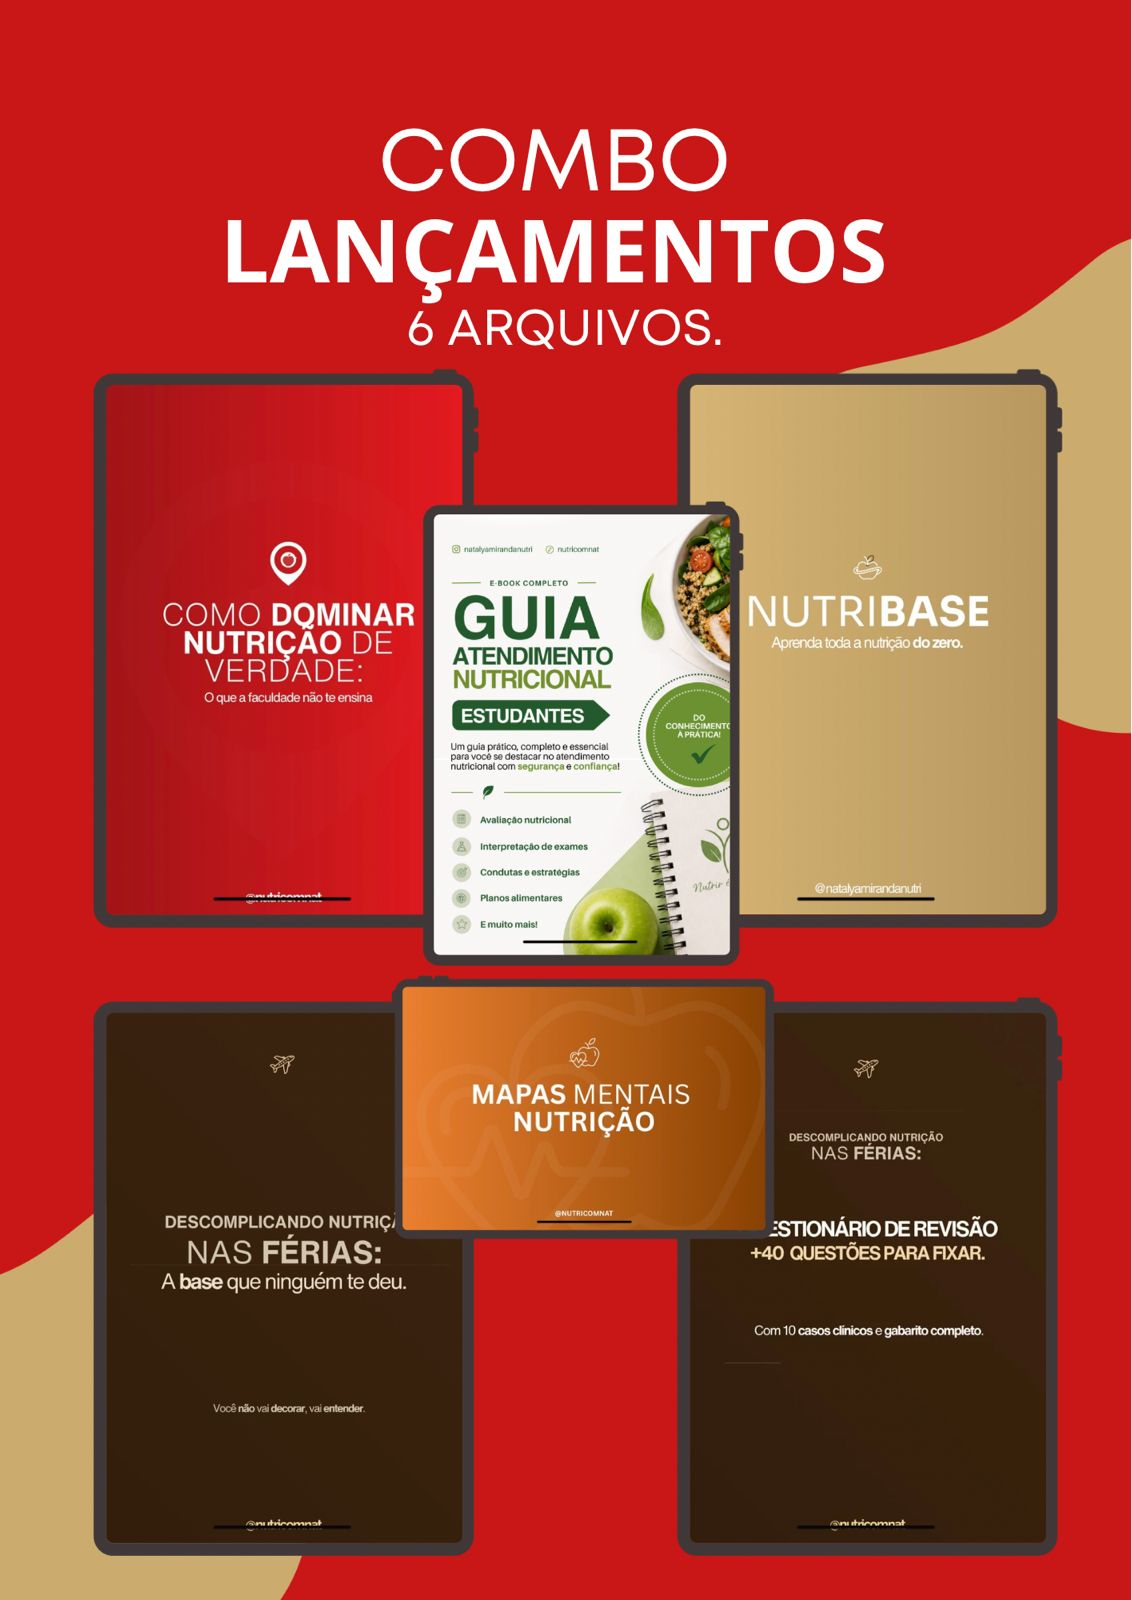
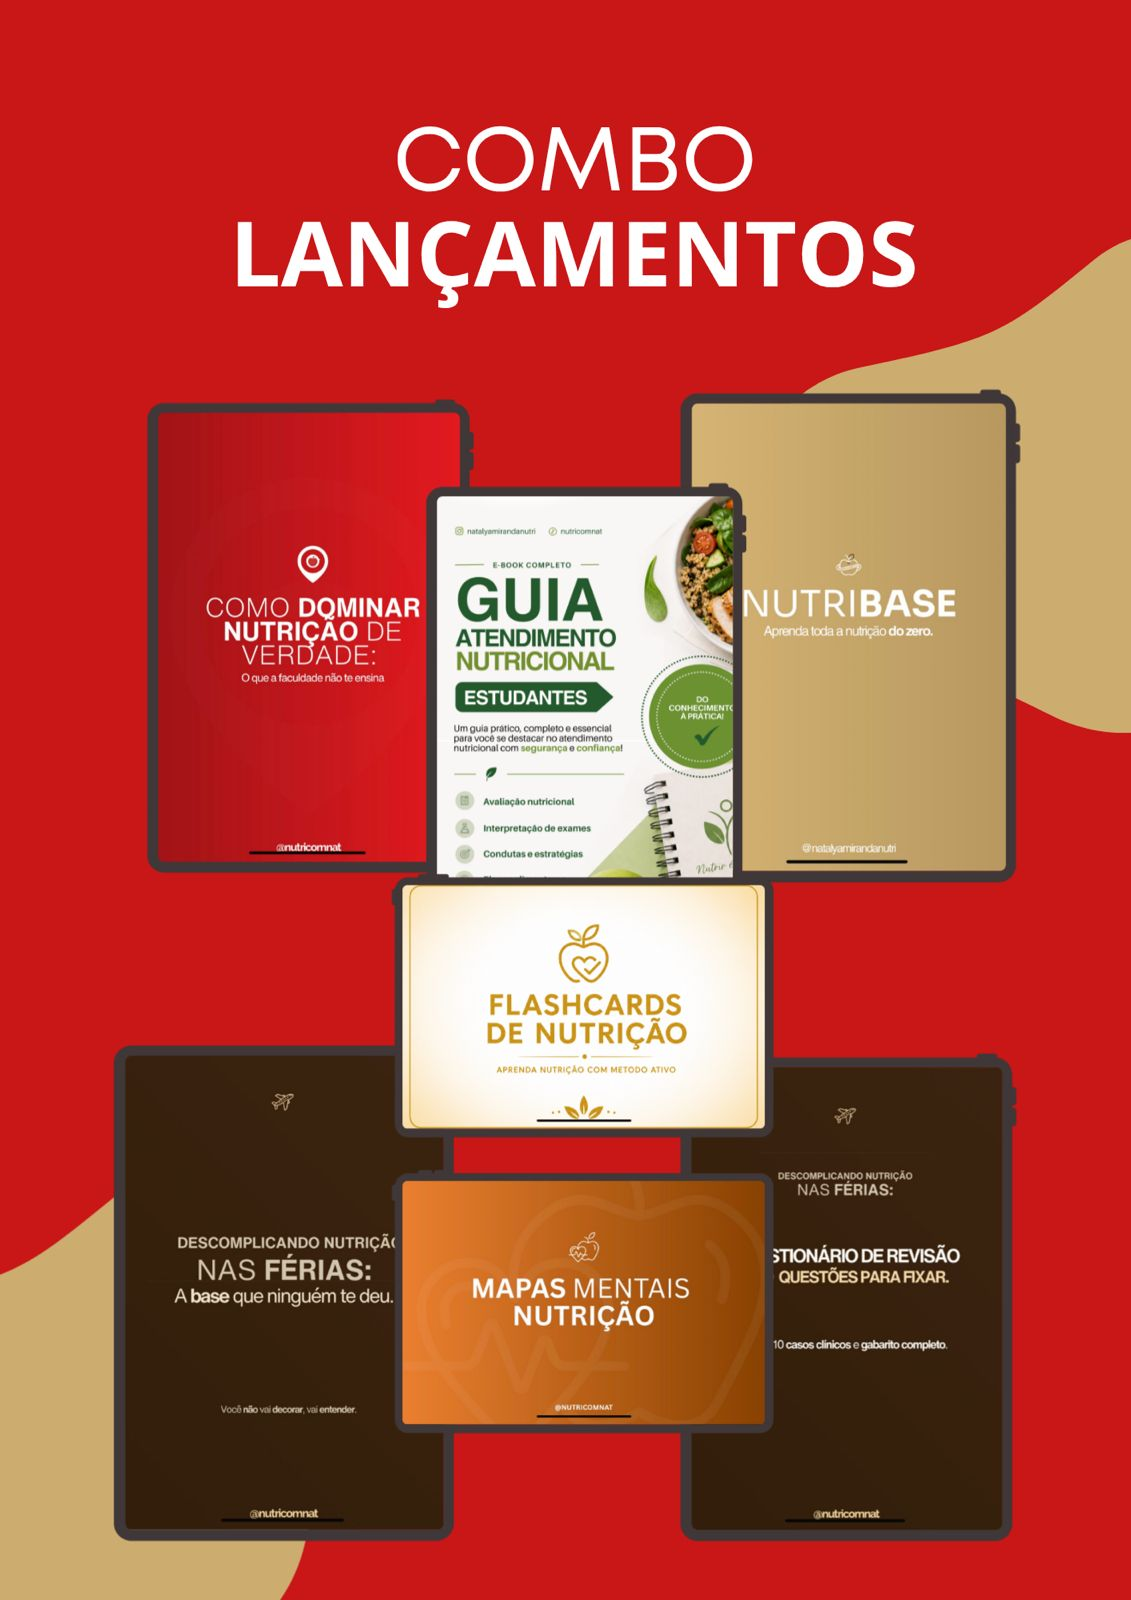
Add resumo

diff --git a/index.html b/index.html
@@ -41,9 +41,12 @@
       <div class="intro-container">
         <div class="intro-texto">
           <h6 class="intro-subtitle text-top">Sejam bem-vindos</h6>
-          <h1 class="intro-title text-top">Aos meus<br />resumos e<br />apostilas!</h1>
-          <p class="intro-text text-top">Materiais em PDF da área <u>da Saúde e Nutrição.</u></p>
-          <p class="intro-text text-top">Te garanto <em><strong>notas máximas</strong></em> nas disciplinas!</p>
+          <h1 class="intro-title text-top">Aos meus<br />materiais!</h1>
+          <!-- <p class="intro-text text-top">Materiais em PDF da área <u>da Saúde e Nutrição.</u></p> -->
+          <p class="intro-text text-top">Domine a Nutrição de forma <u>prática e organizada</u>:</p>
+          <!-- <p class="intro-text text-top">Te garanto <em><strong>notas máximas</strong></em> nas disciplinas!</p> -->
+          <br>
+          <p class="intro-text text-top">Resumos, mapas mentais, guias e materiais criados para ajudar estudantes a aprender mais rápido e se sentir seguro nas provas, estágios e atendimentos.</p>
         </div>
         <div class="intro-logo my-4">
           <img alt="Logo Resunutri" class="img-fluid rounded-4 shadow" src="src/media/site/logo-nutricomnat.png" />
@@ -123,8 +126,8 @@
           <div aria-labelledby="panelsStayOpen-headingOne" class="accordion-collapse collapse show"
             id="panelsStayOpen-collapseOne">
             <div class="accordion-body">
-              Meu nome é <strong>Natálya Caroline</strong>, tenho 21 anos, moro em Recife-PE e sou <strong>estudante de
-                Nutrição</strong> do sétimo período. Crio resumos desde o início da faculdade como uma forma de tornar
+              Meu nome é <strong>Natálya Caroline</strong>, tenho 22 anos, moro em Recife-PE e sou <strong>estudante do último período de
+              Nutrição</strong>. Crio resumos desde o início da faculdade como uma forma de tornar
               os estudos mais práticos, didáticos e eficientes para a memória. O que começou como uma estratégia pessoal
               de aprendizado, hoje se transformou em um projeto que compartilho com vocês — com conteúdos pensados para
               facilitar a sua rotina de estudos também!
@@ -226,7 +229,7 @@
     <button class="btn btn-light" data-bs-toggle="modal" data-bs-target="#adminModal">
       Acesso ADMIN
     </button>
-    <p>V.20260507.1</p>
+    <p>V.20260706.1</p>
   </div>
 
   <script src="admin-modal.js"></script>

diff --git a/script.js b/script.js
@@ -3,7 +3,7 @@
 let selectedResumos = [];
 let resumosData = [];
 
-console.log("NutriComNat - V.20260507.1") // Version
+console.log("NutriComNat - V.20260706.1") // Version
 
 fetch("src/data/data.json")
   .then(response => response.json())
